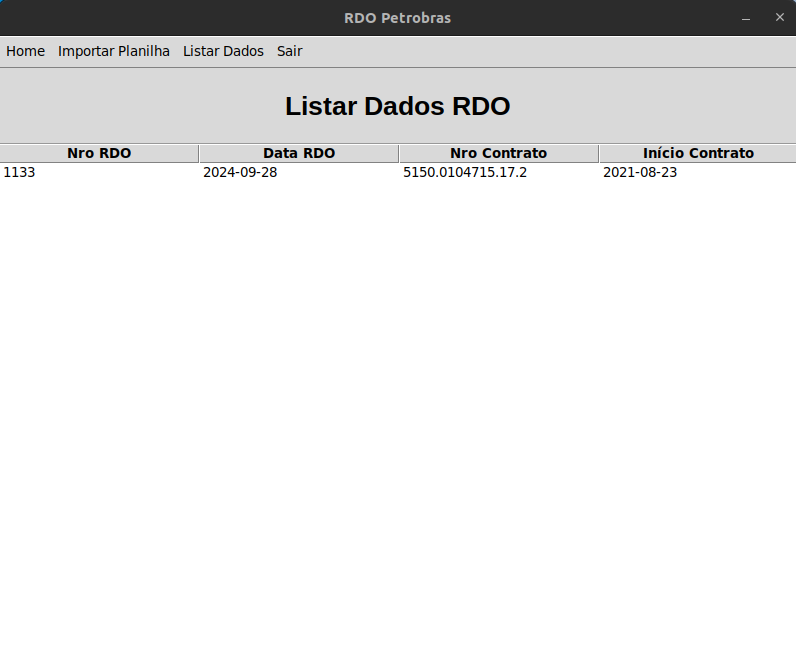
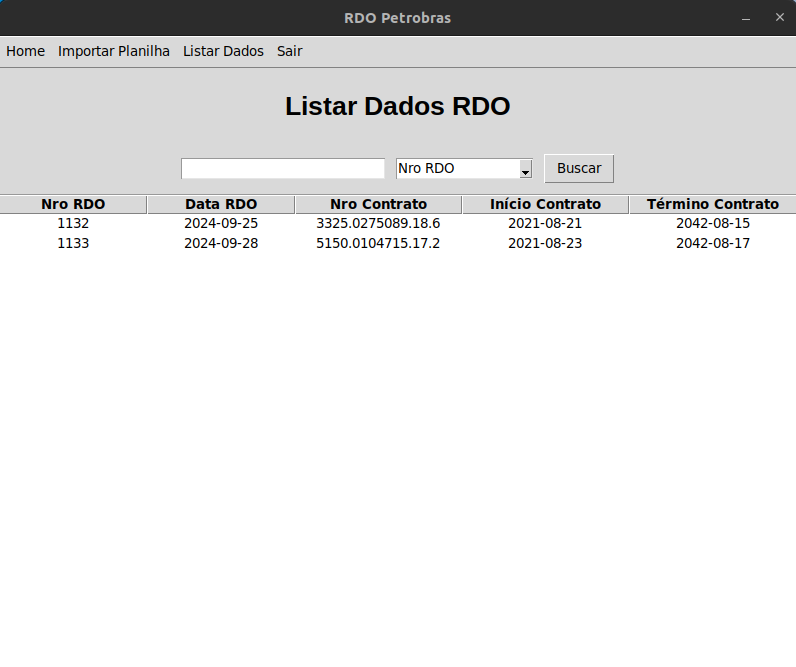
Atualização de arquivos

Changed region(s): [[0.0, 0.2099, 1.0, 0.3898]]

diff --git a/app/data_display.py b/app/data_display.py
@@ -2,6 +2,7 @@ import tkinter as tk
 from tkinter import ttk, messagebox
 import logging
 import mysql.connector
+from datetime import datetime
 
 # Configuração do logger
 logger = logging.getLogger('DataDisplay')
@@ -17,17 +18,65 @@ class DataDisplay:
         title_label = tk.Label(self.panel, text="Listar Dados RDO", font=("Arial", 20, "bold"))
         title_label.pack(pady=20)
 
+        # Filtro de busca
+        filter_frame = tk.Frame(self.panel)
+        filter_frame.pack(pady=10)
+
+        self.filter_value = tk.Entry(filter_frame, width=25)
+        self.filter_value.pack(side="left", padx=5)
+
+        # Atualizando os rótulos do ComboBox para exibir "Nro RDO", "Data RDO" e "Nro Contrato"
+        self.filter_type = ttk.Combobox(filter_frame, values=["Nro RDO", "Data RDO", "Nro Contrato"], width=15)
+        self.filter_type.set("Nro RDO")  # Valor padrão
+        self.filter_type.pack(side="left", padx=5)
+
+        self.search_button = tk.Button(filter_frame, text="Buscar", command=self.load_data)
+        self.search_button.pack(side="left", padx=5)
+
         # Tabela
         self.tree = ttk.Treeview(self.panel, columns=("Nro RDO", "Data RDO", "Nro Contrato", "Início Contrato", "Término Contrato"), show="headings")
         self.tree.pack(fill='both', expand=True)
 
+        # Definindo o tamanho das colunas para apertar mais
+        self.tree.column("Nro RDO", width=100, anchor="center")
+        self.tree.column("Data RDO", width=100, anchor="center")
+        self.tree.column("Nro Contrato", width=120, anchor="center")
+        self.tree.column("Início Contrato", width=120, anchor="center")
+        self.tree.column("Término Contrato", width=120, anchor="center")
+
+        # Definindo os cabeçalhos
         for col in self.tree['columns']:
             self.tree.heading(col, text=col)
+
+    def format_date(self, date_value):
+        """
+        Converte uma data para o formato DD/MM/YYYY
+        """
+        if isinstance(date_value, str):
+            # Tenta converter string no formato "YYYY-MM-DD" para "DD/MM/YYYY"
+            try:
+                date_obj = datetime.strptime(date_value, "%Y-%m-%d")
+                return date_obj.strftime("%d/%m/%Y")
+            except ValueError:
+                return date_value  # Retorna o valor sem alterações se não for uma data válida
+        elif isinstance(date_value, datetime):
+            return date_value.strftime("%d/%m/%Y")  # Converte datetime para o formato desejado
+        return date_value  # Se for outro tipo, retorna sem alterações
 
     def load_data(self):
         # Limpar dados existentes
         for item in self.tree.get_children():
             self.tree.delete(item)
+
+        filter_value = self.filter_value.get().strip()
+        filter_type = self.filter_type.get()
+
+        # Mapeamento entre o valor legível do ComboBox e o nome da coluna no banco de dados
+        filter_mapping = {
+            "Nro RDO": "r.nro_rdo",
+            "Data RDO": "r.data",
+            "Nro Contrato": "rc.nro_contrato"
+        }
 
         connection = None
         try:
@@ -38,21 +87,39 @@ class DataDisplay:
                 return
 
             cursor = connection.cursor(dictionary=True)
-            query = """
-                SELECT r.nro_rdo, r.data, rc.nro_contrato, rc.inicio_contrato, rc.termino_contrato
-                FROM rdo r
-                JOIN rdo_contrato rc ON r.id = rc.id_rdo
-            """
-            cursor.execute(query)
+
+            # Se o valor do filtro for fornecido, ajusta a consulta
+            if filter_value:
+                query = f"""
+                    SELECT r.nro_rdo, r.data, rc.nro_contrato, rc.inicio_contrato, rc.termino_contrato
+                    FROM rdo r
+                    JOIN rdo_contrato rc ON r.id = rc.id_rdo
+                    WHERE {filter_mapping[filter_type]} = %s
+                """
+                cursor.execute(query, (filter_value,))
+            else:
+                query = """
+                    SELECT r.nro_rdo, r.data, rc.nro_contrato, rc.inicio_contrato, rc.termino_contrato
+                    FROM rdo r
+                    JOIN rdo_contrato rc ON r.id = rc.id_rdo
+                """
+                cursor.execute(query)
+
             rows = cursor.fetchall()
 
             for row in rows:
+                # Converte as datas para o formato DD/MM/YYYY antes de adicionar na tabela
+                data_rdo = self.format_date(row["data"])
+                inicio_contrato = self.format_date(row["inicio_contrato"])
+                termino_contrato = self.format_date(row["termino_contrato"])
+
+                # Insere os dados formatados na tabela
                 self.tree.insert("", "end", values=(
                     row["nro_rdo"],
-                    row["data"],
+                    data_rdo,  # Data formatada
                     row["nro_contrato"],
-                    row["inicio_contrato"],
-                    row["termino_contrato"]
+                    inicio_contrato,  # Início contrato formatado
+                    termino_contrato   # Término contrato formatado
                 ))
 
         except mysql.connector.Error as e:
